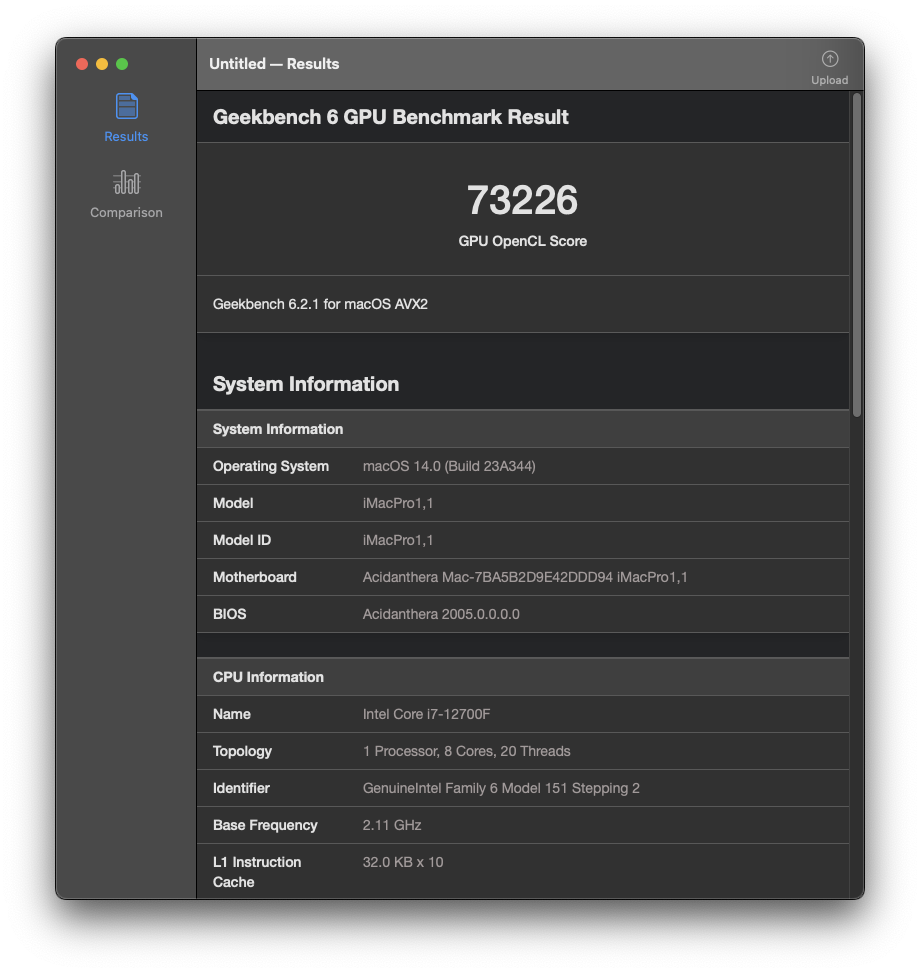
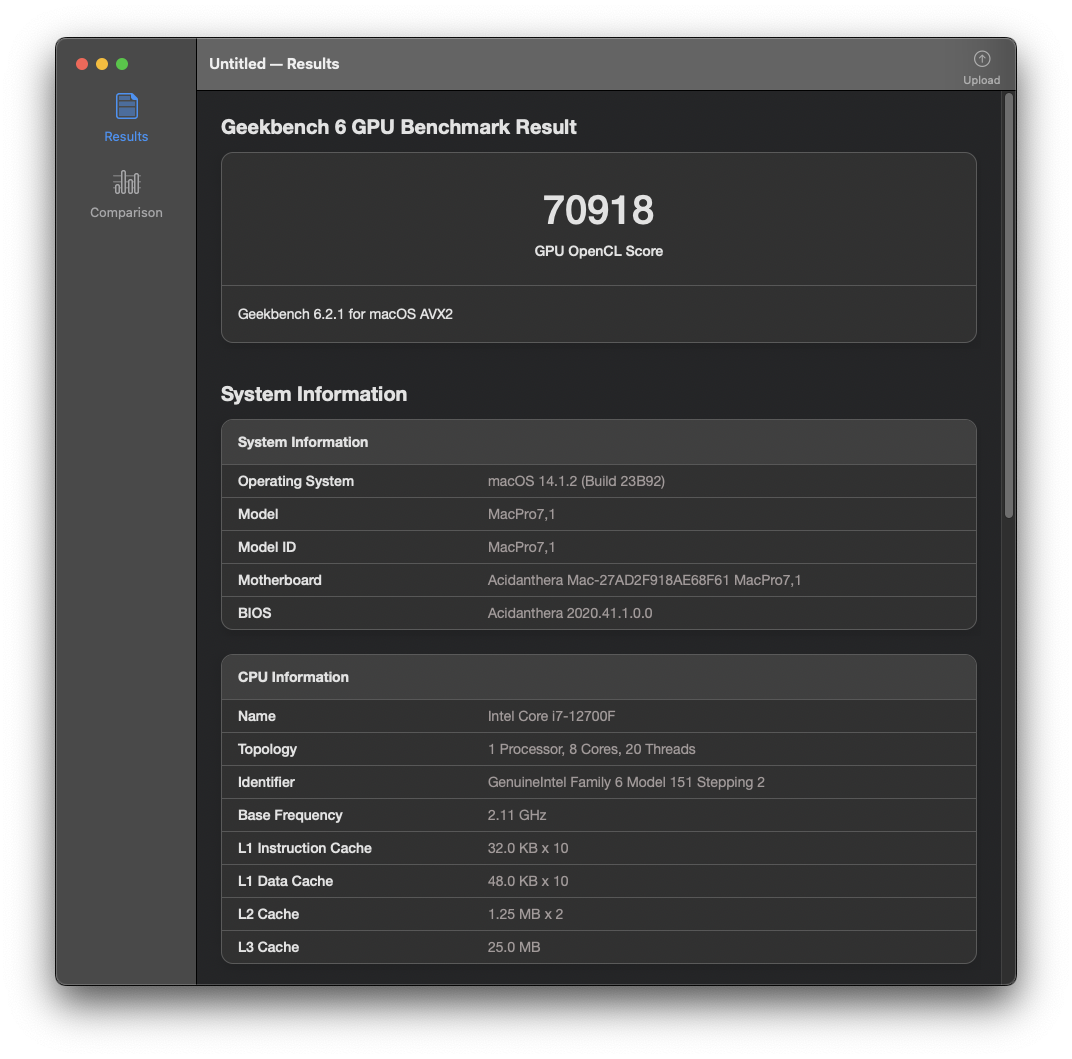
Update screenshots MacPro7,1

Changed region(s): [[0.0304, 0.0308, 0.9739, 0.9558], [0.487, 0.185, 0.6391, 0.2775]]

diff --git a/README.md b/README.md
@@ -96,10 +96,10 @@ Recommend you should `Load Optimized Default` first. Then save and restart and g
 ![USB](./ss/usb.png)
 
 ## CPU Power Management
-* CPU power management is native with SMBIOS `iMacPro1,1`, that means `CPUFriend` is not needed. If you have CPU Geekbench score is lower than me, please check your BIOS configuration. If BIOS is correct, the single score and multi score almost should be liked the result picture.
+* CPU power management is handled with `CPUFriend` and `CPUFriendDataProvider` for SMBIOS `MacPro7,1`. If you have CPU Geekbench score is lower than me, please check your BIOS configuration. If BIOS is correct, the single score and multi score almost should be liked the result picture.
 
 ## iService
-* To use iMessage and other Apple services, you need to generate your own serial numbers. This can be done using [CorpNewt's GenSMBIOS](https://github.com/corpnewt/GenSMBIOS). Make sure model is `iMacPro1,1`. Then, go [Apple Check Coverage page](https://checkcoverage.apple.com/) to check your generated serial numbers. If the website tells you that the serial number **is not valid**, that is fine. Otherwise, you have to generate a new set.
+* To use iMessage and other Apple services, you need to generate your own serial numbers. This can be done using [CorpNewt's GenSMBIOS](https://github.com/corpnewt/GenSMBIOS). Make sure model is `MacPro7,1`. Then, go [Apple Check Coverage page](https://checkcoverage.apple.com/) to check your generated serial numbers. If the website tells you that the serial number **is not valid**, that is fine. Otherwise, you have to generate a new set.
 
 * Next you will have to copy the following values to your `config.plist`:
   - Serial Number -> `PlatformInfo/Generic/SystemSerialNumber`.
